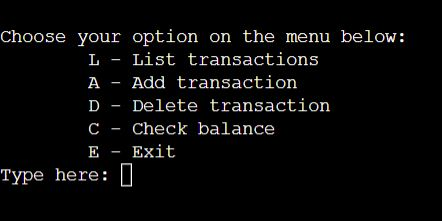
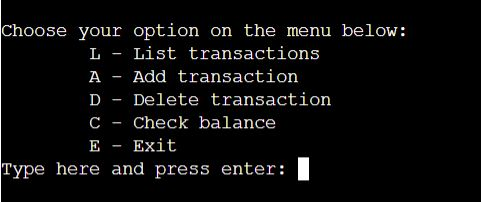
Add menu description readme

diff --git a/README.md b/README.md
@@ -27,6 +27,9 @@ The live website on Heroku can be accessed at the following link: [Live Website 
 ## Menu
 * The inicial input request the user to select an option.
 * Despite of the menu options beein in capital letter, the user can input also in lowercase without getting an error message.
-* If a non-correspondent letter is pressed the user gets and error message.
 
-![Menu](./assets/images/menu_eih.JPG) 
+![Menu](./assets/images/menu_eih.JPG)
+
+* If a non-correspondent letter is pressed the user gets and error message and get to chosse again from the options on the menu.
+
+![Menu_error_message](./assets/images/menu_error_eih.JPG) 
